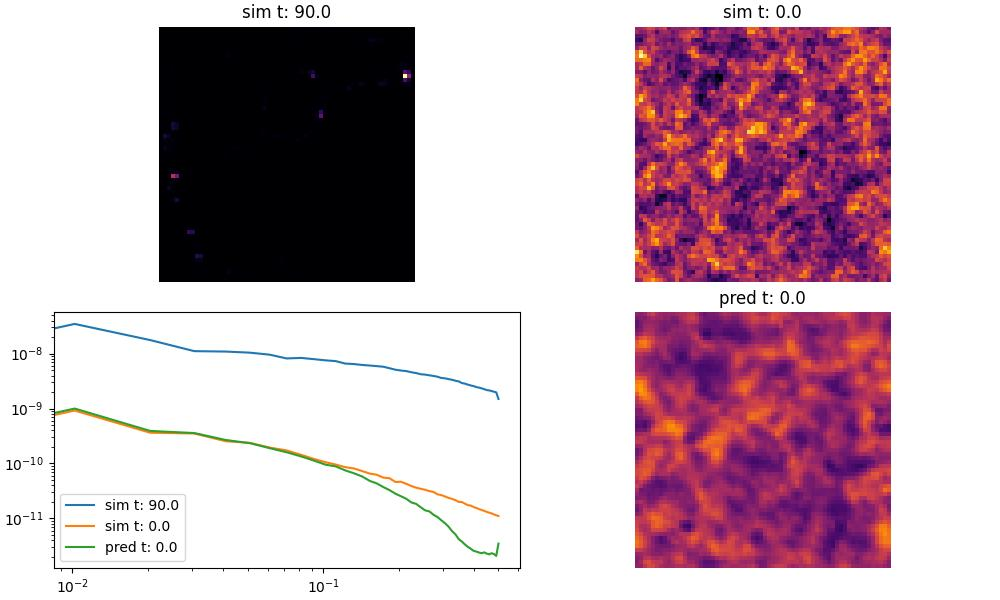
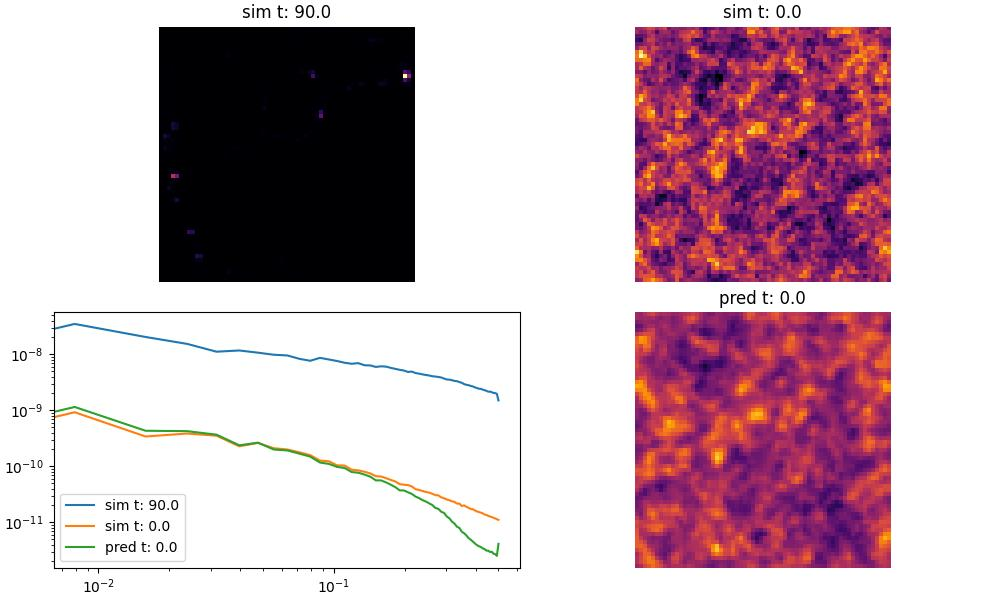
power spectrum to sequence

diff --git a/src/visualize/sequence.py b/src/visualize/sequence.py
@@ -25,7 +25,7 @@ def sequence(
     fig = plt.figure(figsize=(10, 6), layout="constrained")
     grid = fig.add_gridspec(nrows=2, ncols=frames)
 
-    power_spectrum = PowerSpectrum(grid_size, 50)
+    power_spectrum = PowerSpectrum(grid_size, config.grid_size)
 
     ax_power = fig.add_subplot(grid[1, 0])
 

diff --git a/README.md b/README.md
@@ -45,6 +45,8 @@ source .env/bin/activate
 pip install -U "jax[cuda12]"
 pip install nvidia-dali-cuda120
 pip install optax equinox matplotlib
+conda install -c bccp nbodykit
+conda update -c bccp --all
 ```
 
 ### Train & Eval
